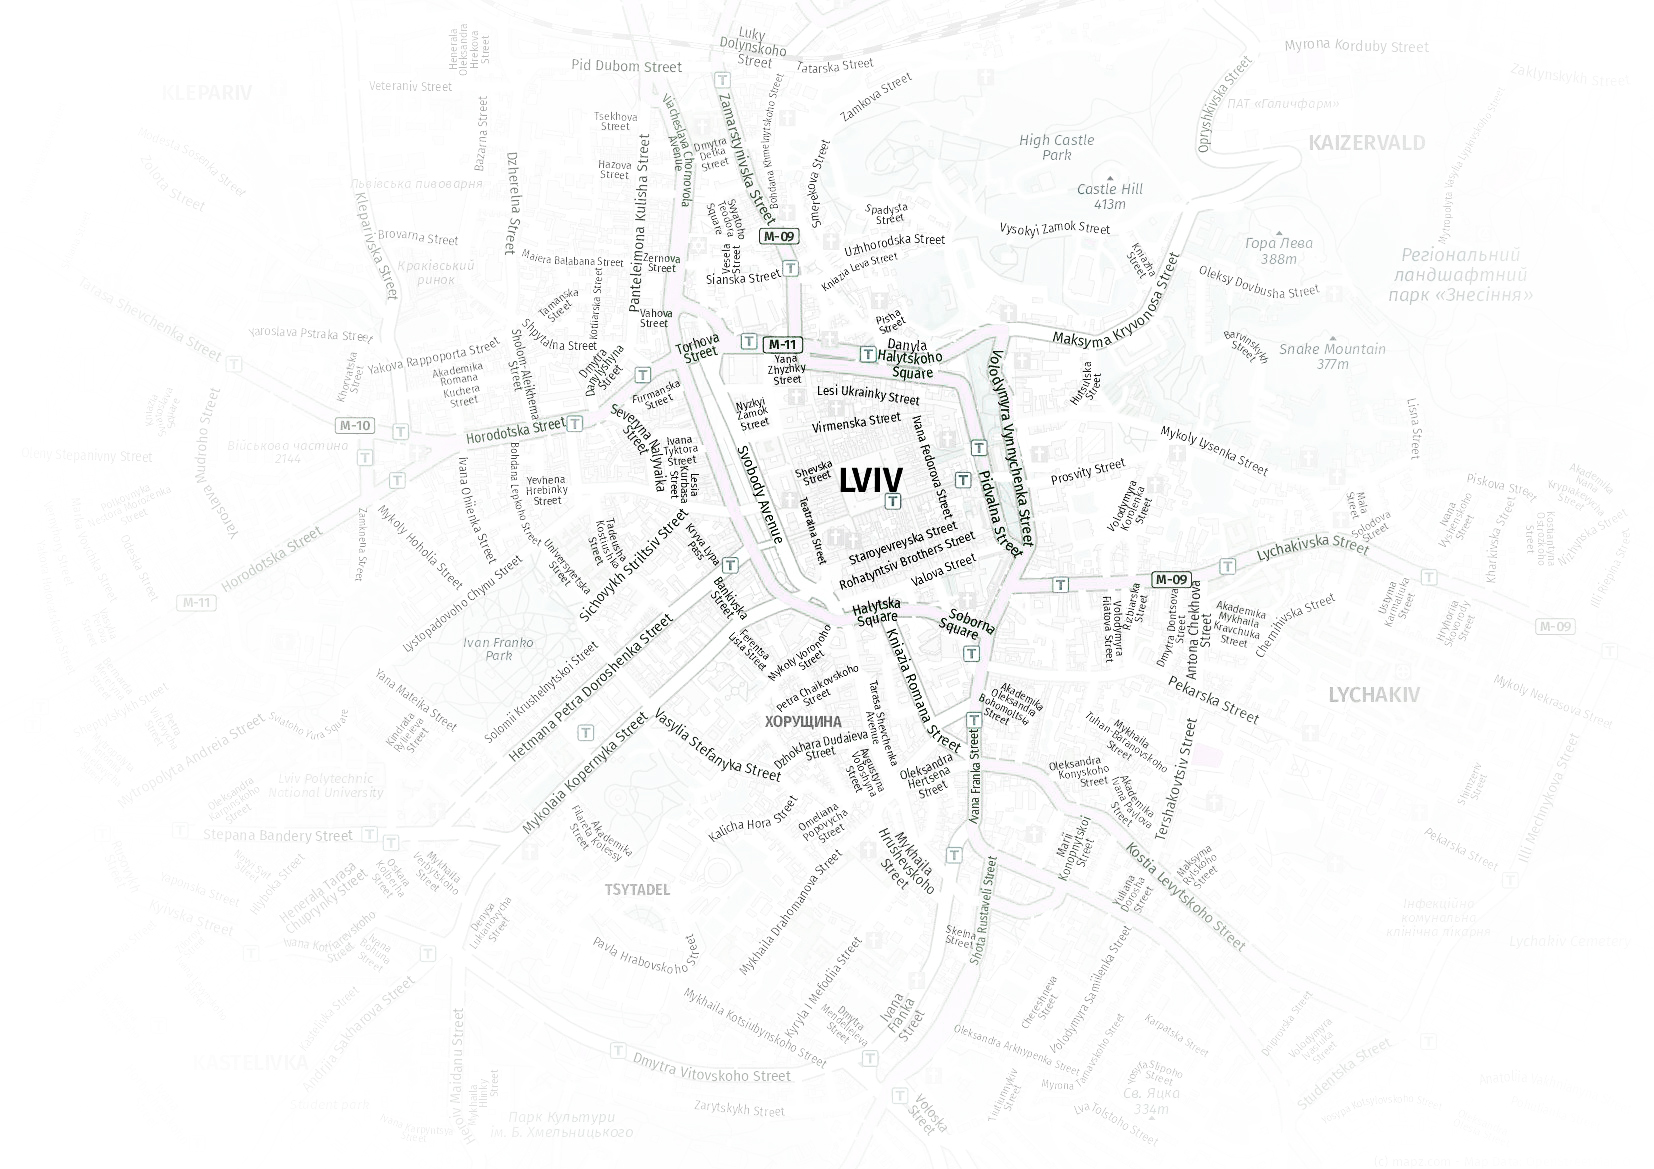
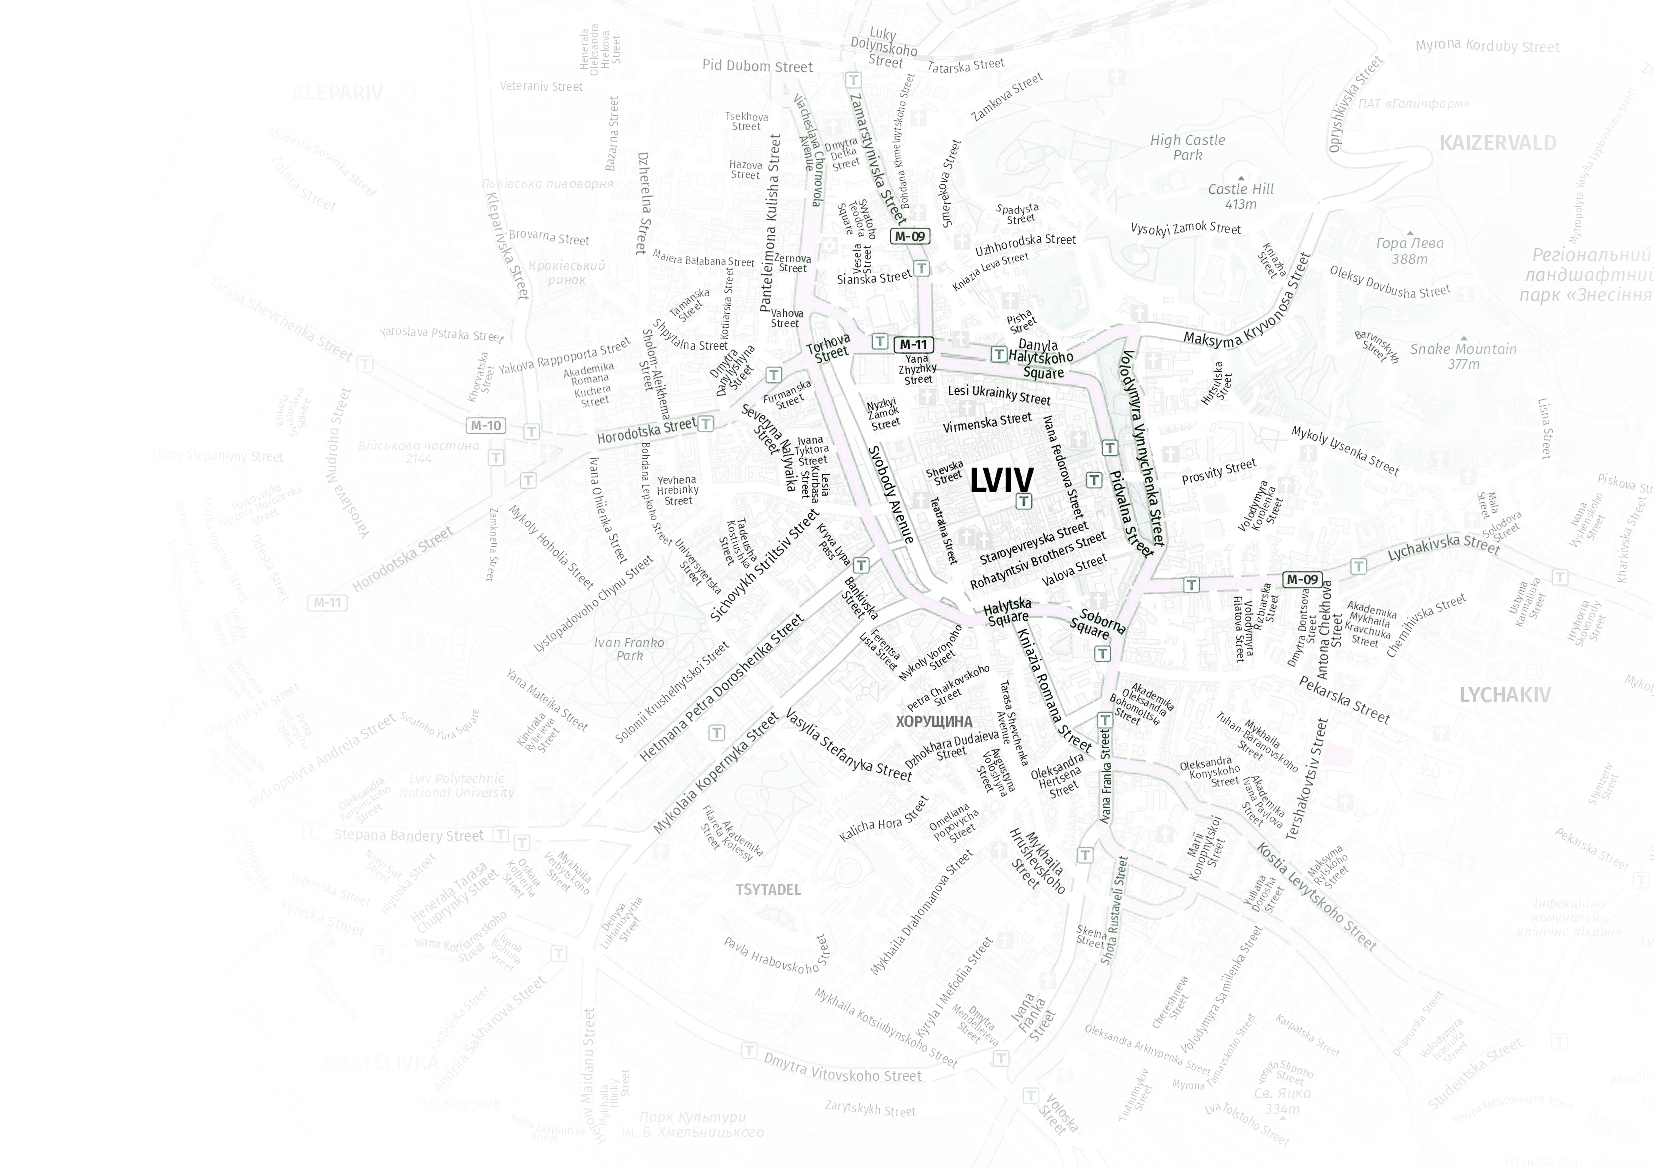
3ED

diff --git a/greeek lviv.html b/greeek lviv.html
@@ -23,7 +23,7 @@
            
             
            
-            <a class="ob2" href="#" onClick="look('div2'); return false;"><img src="Монасти́р свято́го Ону́фрія.jpg"></a>
+            <a href="#" onClick="look('div2'); return false;"><img src="Монасти́р свято́го Ону́фрія.jpg" style="position: absolute; top: 80px; left: 910px;"> </a>
            
             <div id="div2" style="display:none">
                  

diff --git a/stylegreece.css b/stylegreece.css
@@ -1,6 +1,7 @@
 body {
     background: url(map.jpg) no-repeat;
     background-position-x: left;
+    margin-left: 200px;
     background-position-y: top;
     overflow: hidden
 }
@@ -54,8 +55,4 @@ p{
     position: fixed;
     overflow: auto;
     font-family: comfortaa;
-}
-.ob2{
-    margin-left: 40%;
-    margin-top: 20%;
 }
